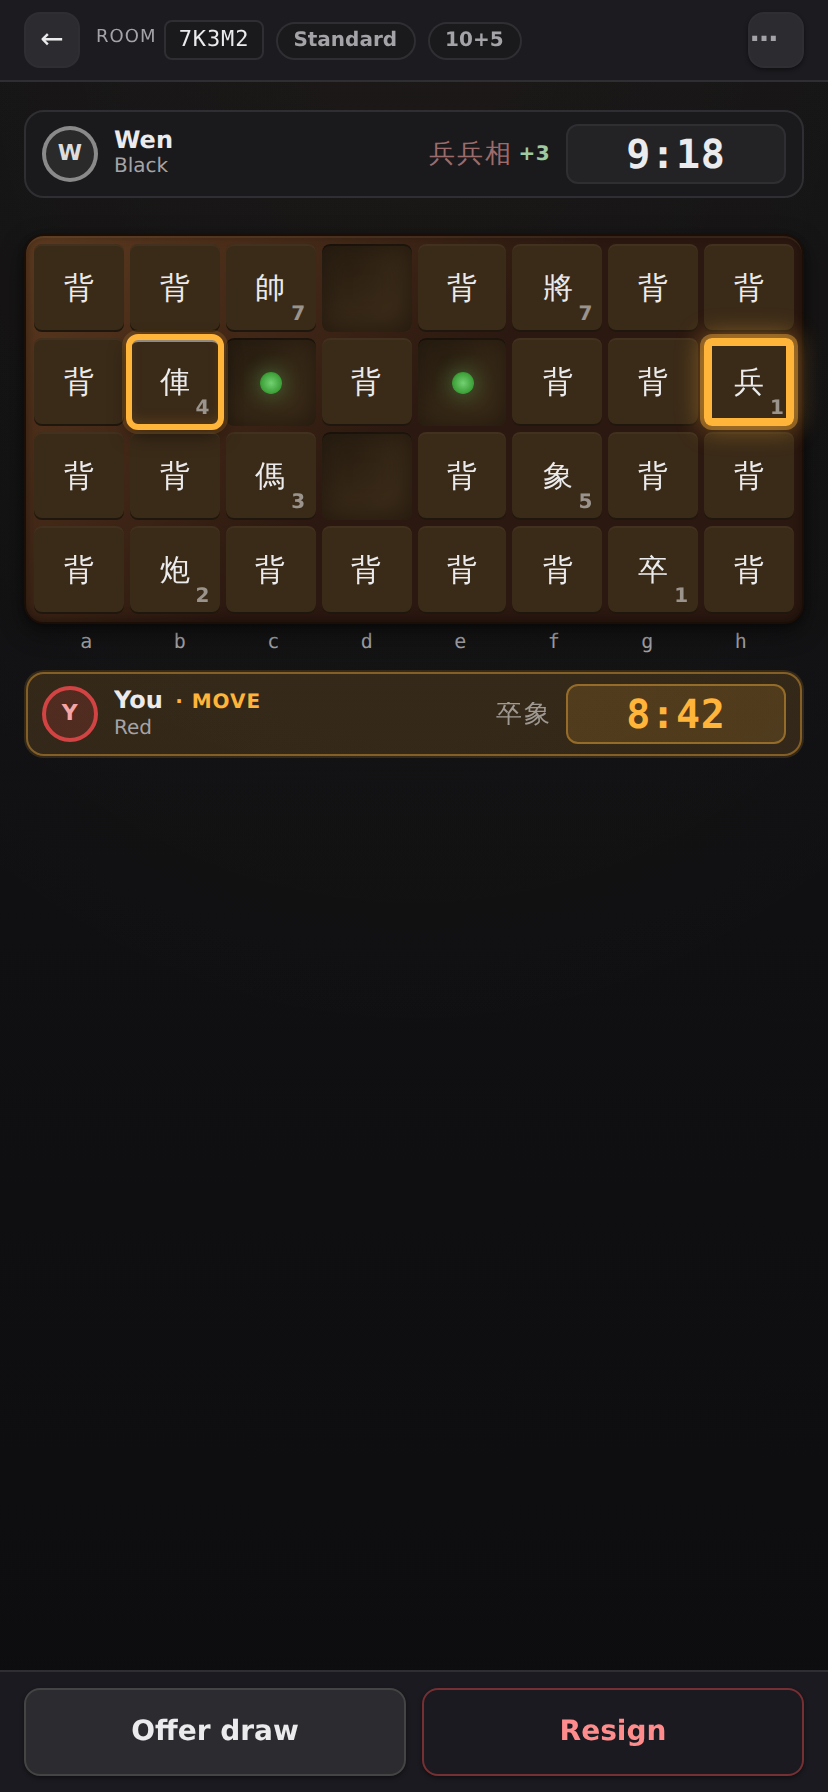
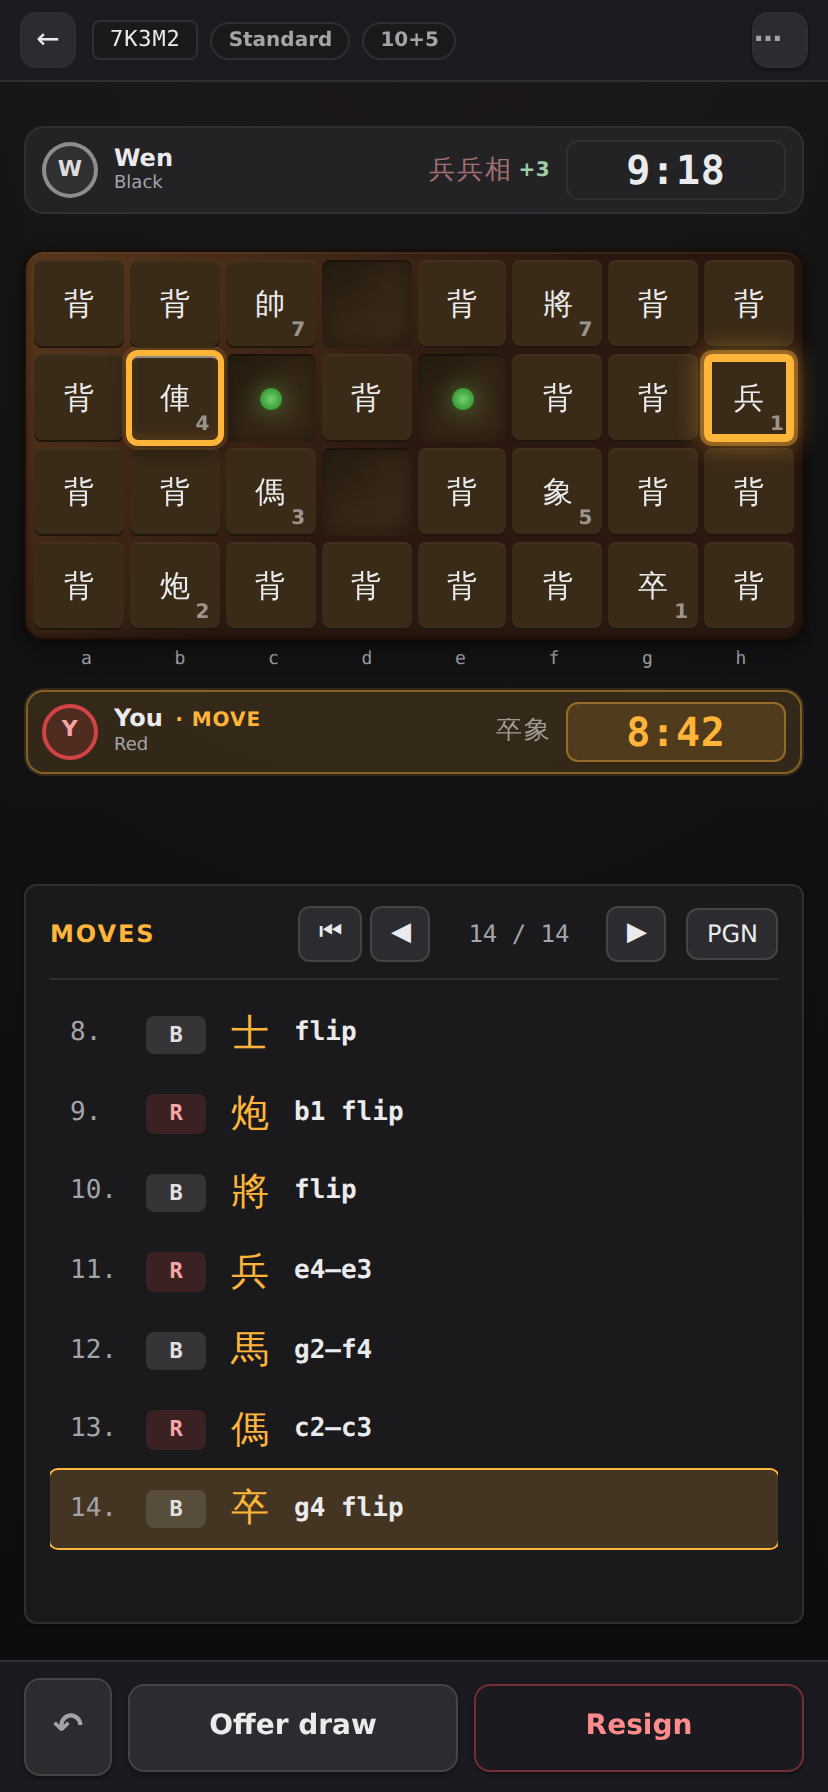
fix(web): close remaining gaps between beta layout and mockup
A second pass tightening the live render against the mockup, pixel by
pixel:

- Slim header now shows just the room code (no "ROOM" label) and uses
  a new .slim-room-code style identical to the mockup's chip
  treatment; container padding 12 → 10 px on the sides.
- Player cards switch from surface-1 to surface-2 so they actually
  stand out from the page background.
- Subtitle drops 10 → 9 px to match.
- Coord file labels drop 10 → 9 px with 2 px breathing room above.
- Bottom action bar now mirrors the mockup's three-button layout:
  ↶ undo · Offer draw · Resign. The ↶ button steps the move list
  back by one (replay.goPrev) and gets a square 44 × 44 .bb-icon
  treatment so it doesn't dominate the bar.
- Mobile portrait: the game view is now a column flex with the
  transcript flex-growing into the lower half of the screen — no
  more dead space between the YOU card and the bottom bar in
  portrait when a transcript is present.
- Side-panel (≥720 px) layout aligns transcript to stretch with the
  board column, matching the mockup desktop/landscape behaviour.

Documented gap (data limitation, not styling):
- Per-player ELO ("Black · 1542") in the mockup's card subtitle is
  not rendered because active.info does not currently carry player
  ratings. The subtitle falls back to just the color. Surfacing ELO
  would require either a server fetch to /api/leaderboard for both
  players on game load, or extending the relay's game payload to
  include the rating on each side.
[…]

diff --git a/web/style.css b/web/style.css
@@ -2545,10 +2545,10 @@ body[data-game-layout="beta"] .game-slim-header {
   display: flex;
   align-items: center;
   gap: 8px;
-  padding: 6px 12px;
+  padding: 6px 10px;
   padding-top: calc(6px + env(safe-area-inset-top));
-  padding-left: max(12px, env(safe-area-inset-left));
-  padding-right: max(12px, env(safe-area-inset-right));
+  padding-left: max(10px, env(safe-area-inset-left));
+  padding-right: max(10px, env(safe-area-inset-right));
   background: rgba(28, 28, 34, 0.92);
   border-bottom: 1px solid var(--surface-border);
   backdrop-filter: blur(10px);
@@ -2579,22 +2579,9 @@ body[data-game-layout="beta"] .slim-mid {
   overflow: hidden;
   flex-wrap: wrap;
 }
-body[data-game-layout="beta"] .slim-room {
-  display: inline-flex;
-  align-items: center;
-  gap: 4px;
-  font-size: 11px;
-  color: var(--muted);
-}
-body[data-game-layout="beta"] .slim-room .meta-label {
-  font-size: 9px;
-  text-transform: uppercase;
-  letter-spacing: 0.06em;
-  color: var(--muted);
-}
-body[data-game-layout="beta"] .slim-room code {
+body[data-game-layout="beta"] .slim-room-code {
   background: var(--surface-1);
-  padding: 1px 6px;
+  padding: 1px 8px;
   border-radius: 4px;
   font-family: ui-monospace, monospace;
   font-size: 11px;
@@ -2696,7 +2683,7 @@ body[data-game-layout="beta"] .player-card {
   align-items: center;
   gap: 8px;
   padding: 6px 8px;
-  background: var(--surface-1);
+  background: var(--surface-2);
   border: 1px solid var(--surface-border);
   border-radius: 10px;
   font-size: 11px;
@@ -2761,7 +2748,7 @@ body[data-game-layout="beta"] .player-card-move {
   margin-left: 2px;
 }
 body[data-game-layout="beta"] .player-card-sub {
-  font-size: 10px;
+  font-size: 9px;
   color: var(--muted);
 }
 body[data-game-layout="beta"] .player-card-clock {
@@ -2826,9 +2813,9 @@ body[data-game-layout="beta"] .board-stack {
 body[data-game-layout="beta"] .board-coords {
   display: grid;
   grid-template-columns: repeat(8, 1fr);
-  padding: 0 8px;
+  padding: 2px 8px 0;
   text-align: center;
-  font-size: 10px;
+  font-size: 9px;
   color: var(--muted);
   font-family: ui-monospace, monospace;
   letter-spacing: 0.04em;
@@ -2846,23 +2833,46 @@ body[data-game-layout="beta"] .board-coord-file { text-align: center; }
   }
 }
 
-/* Game-layout side panel earlier (was 900 px → now 720 px). Mobile-first
-   default remains single-column. */
+/* Mobile-portrait: the transcript fills the room left below the YOU card so
+   the page reads top-to-bottom with no awkward empty gap. We turn each
+   game view into a column-flex container and let the transcript grow. */
+body[data-game-layout="beta"][data-active-view="game"] #view-game,
+body[data-game-layout="beta"][data-active-view="otb"]  #view-otb,
+body[data-game-layout="beta"][data-active-view="ai"]   #view-ai {
+  display: flex;
+  flex-direction: column;
+  min-height: calc(100dvh - 8px);
+}
+body[data-game-layout="beta"] .game-layout {
+  flex: 1;
+  min-height: 0;
+}
+body[data-game-layout="beta"] .game-layout > .transcript-panel {
+  display: flex;
+  flex-direction: column;
+  min-height: 220px;
+  margin-top: 8px;
+}
+body[data-game-layout="beta"] .game-layout > .transcript-panel .transcript-list {
+  flex: 1;
+  max-height: none;
+}
+
+/* Game-layout side panel earlier (was 900 px → now 720 px). The board column
+   carries opp + board + coords + you cards; transcript fills the right
+   column. The grid uses align-items:stretch so the transcript matches the
+   board column's height instead of floating at the top. */
 @media (min-width: 720px) {
   body[data-game-layout="beta"] .game-layout {
+    display: grid;
     grid-template-columns: minmax(0, 1fr) minmax(260px, 360px);
-    align-items: start;
+    align-items: stretch;
+    gap: 12px;
   }
   body[data-game-layout="beta"] .game-layout > .board-stack { margin-top: 0; }
   body[data-game-layout="beta"] .game-layout > .transcript-panel {
     margin-top: 0;
-    max-height: calc(100dvh - 220px);
-    display: flex;
-    flex-direction: column;
-  }
-  body[data-game-layout="beta"] .game-layout > .transcript-panel .transcript-list {
-    max-height: none;
-    flex: 1;
+    max-height: calc(100dvh - 120px);
   }
 }
 
@@ -2902,6 +2912,13 @@ body[data-game-layout="beta"] .bb-btn {
   justify-content: center;
   font-family: inherit;
 }
+body[data-game-layout="beta"] .bb-btn.bb-icon {
+  flex: 0 0 44px;
+  padding: 10px 0;
+  font-size: 18px;
+  color: var(--muted);
+}
+body[data-game-layout="beta"] .bb-btn.bb-icon:hover { color: var(--fg); }
 body[data-game-layout="beta"] .bb-btn:hover { background: var(--surface-4); }
 body[data-game-layout="beta"] .bb-btn:focus-visible {
   outline: none;

diff --git a/web/main.js b/web/main.js
@@ -933,6 +933,12 @@ function paintBetaLayoutOnline(ctx) {
 function wireBottomBarOnline(rootEl, ctx) {
   if (!rootEl) return;
   const { view } = ctx;
+  const undoBtn = rootEl.querySelector('#bb-undo');
+  if (undoBtn) undoBtn.onclick = () => {
+    if (!active?.replay) return;
+    active.replay.goPrev();
+    refreshGame();
+  };
   const resignBtn = rootEl.querySelector('#bb-resign');
   if (resignBtn) {
     resignBtn.onclick = async () => {
@@ -1533,6 +1539,12 @@ function paintBetaLayoutOTB(ctx) {
 
 function wireBottomBarOTB(rootEl) {
   if (!rootEl) return;
+  const undoBtn = rootEl.querySelector('#bb-undo');
+  if (undoBtn) undoBtn.onclick = () => {
+    if (!active?.replay) return;
+    active.replay.goPrev();
+    refreshOTB();
+  };
   // Reuse the existing classic resign + rematch buttons by delegating to
   // their click handlers — they were just wired in refreshOTB().
   const resignBtn = rootEl.querySelector('#bb-resign');
@@ -1858,6 +1870,12 @@ function paintBetaLayoutAI(ctx) {
 
 function wireBottomBarAI(rootEl) {
   if (!rootEl) return;
+  const undoBtn = rootEl.querySelector('#bb-undo');
+  if (undoBtn) undoBtn.onclick = () => {
+    if (!active?.replay) return;
+    active.replay.goPrev();
+    refreshAI();
+  };
   const resignBtn = rootEl.querySelector('#bb-resign');
   if (resignBtn) resignBtn.onclick = () => { $('ai-resign').click(); };
   const newGameBtn = rootEl.querySelector('#bb-new-game');
@@ -2054,7 +2072,7 @@ function renderSlimGameHeaderHtml(opts) {
   return `
     <a class="slim-back" href="${backHref}" aria-label="Back to lobby"><span aria-hidden="true">←</span></a>
     <div class="slim-mid">
-      ${roomCode ? `<span class="slim-room"><span class="meta-label">Room</span> <code>${escapeHtml(roomCode)}</code></span>` : ''}
+      ${roomCode ? `<code class="slim-room-code" aria-label="Room ${escapeHtml(roomCode)}">${escapeHtml(roomCode)}</code>` : ''}
       ${modeText ? `<span class="mode-chip" aria-label="Win condition: ${escapeHtml(modeText)}">${escapeHtml(modeText)}</span>` : ''}
       ${tcText   ? `<span class="mode-chip" aria-label="Time control: ${escapeHtml(tcText)}">${escapeHtml(tcText)}</span>` : ''}
       ${replayChip}
@@ -2135,6 +2153,11 @@ function renderBottomActionBarHtml(opts) {
       <a class="link-btn" href="#/">Back to lobby</a>
       ${canRematch ? `<button type="button" class="bb-btn bb-primary" id="${rematchId}">${rematchLabel}</button>` : ''}`;
   }
+  // Mirrors the mockup's three-button bar: replay-step-back · offer draw · resign.
+  // The undo icon steps the move list back by one (i.e., enters replay mode);
+  // the transcript controls in the side panel can step further.
+  const undoBtn = `<button type="button" class="bb-btn bb-icon" id="bb-undo"
+                          aria-label="Step back through replay" title="Step back">↶</button>`;
   const drawBtn = canOfferDraw
     ? `<button type="button" class="bb-btn ${offerDrawActive ? 'bb-toggle-on' : ''}" id="bb-offer-draw"
                aria-pressed="${offerDrawActive ? 'true' : 'false'}"
@@ -2143,7 +2166,7 @@ function renderBottomActionBarHtml(opts) {
   const resignBtn = canResign
     ? `<button type="button" class="bb-btn bb-danger" id="bb-resign">Resign</button>`
     : '';
-  return `${drawBtn}${resignBtn}`;
+  return `${undoBtn}${drawBtn}${resignBtn}`;
 }
 
 // File coordinate labels under the board (a–h).
